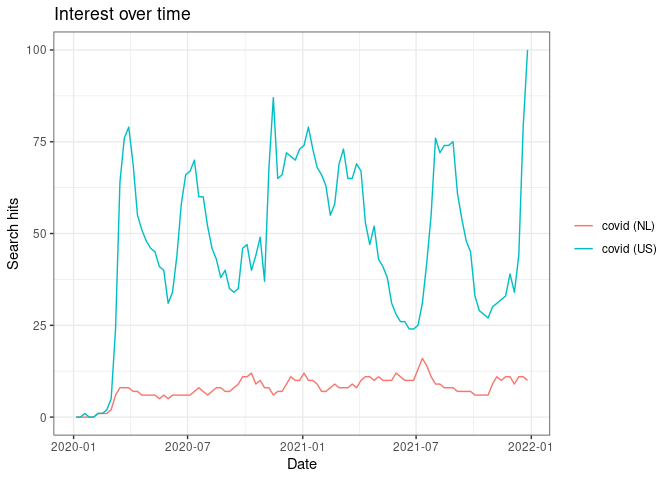
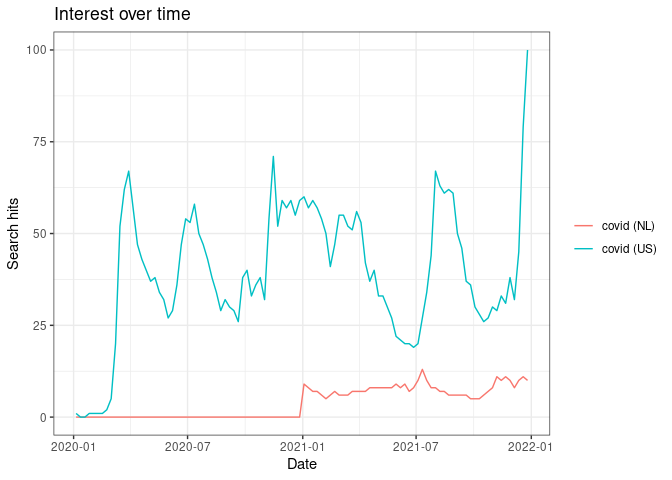
quick update of gathering data tutorial

diff --git a/tutorials/Gathering_data.md b/tutorials/Gathering_data.md
@@ -3,22 +3,26 @@ Gathering data into R
 Kasper Welbers & Wouter van Atteveldt
 January 8, 2021
 
--   [Tabular data formats](#tabular-data-formats)
-    -   [CSV files](#csv-files)
-    -   [Excel files](#excel-files)
-    -   [SPSS files](#spss-files)
-    -   [Stata files](#stata-files)
--   [Hierachical file formats](#hierachical-file-formats)
-    -   [Working with hierarchical data in
-        R](#working-with-hierarchical-data-in-r)
-    -   [JSON](#json)
-    -   [XML](#xml)
-    -   [HTML (sort of)](#html-sort-of)
--   [APIs](#apis)
-    -   [Google trends](#google-trends)
-    -   [Yahoo stock exchange data](#yahoo-stock-exchange-data)
-    -   [Example: CBS](#example-cbs)
--   [Web scraping](#web-scraping)
+- <a href="#tabular-data-formats" id="toc-tabular-data-formats">Tabular
+  data formats</a>
+  - <a href="#csv-files" id="toc-csv-files">CSV files</a>
+  - <a href="#excel-files" id="toc-excel-files">Excel files</a>
+  - <a href="#spss-files" id="toc-spss-files">SPSS files</a>
+  - <a href="#stata-files" id="toc-stata-files">Stata files</a>
+- <a href="#hierachical-file-formats"
+  id="toc-hierachical-file-formats">Hierachical file formats</a>
+  - <a href="#working-with-hierarchical-data-in-r"
+    id="toc-working-with-hierarchical-data-in-r">Working with hierarchical
+    data in R</a>
+  - <a href="#json" id="toc-json">JSON</a>
+  - <a href="#xml" id="toc-xml">XML</a>
+  - <a href="#html-sort-of" id="toc-html-sort-of">HTML (sort of)</a>
+- <a href="#apis" id="toc-apis">APIs</a>
+  - <a href="#google-trends" id="toc-google-trends">Google trends</a>
+  - <a href="#yahoo-stock-exchange-data"
+    id="toc-yahoo-stock-exchange-data">Yahoo stock exchange data</a>
+  - <a href="#example-cbs" id="toc-example-cbs">Example: CBS</a>
+- <a href="#web-scraping" id="toc-web-scraping">Web scraping</a>
 
 # Tabular data formats
 
@@ -53,15 +57,14 @@ Luckily, the diversity of such settings in CSV files is limited today.
 The `readr` package (which is part of the tidyverse) therefore has 3
 general flavours and 1 more versatile function.
 
--   `read_csv` is the default with a comma separator and dot for decimal
-    point. This is often what you need.
--   `read_csv2` uses a semicolon (;) separator with comma for decimal
-    point.
--   `read_tsv` uses tabs as separator (tsv stands for tab-separated
-    values). (`read_csv`, `read_csv2`, `read_tsv`). If you encounter a
-    CSV
--   `read_delim` lets you specify the delimiter and quotation character,
-    and some other settings.
+- `read_csv` is the default with a comma separator and dot for decimal
+  point. This is often what you need.
+- `read_csv2` uses a semicolon (;) separator with comma for decimal
+  point.
+- `read_tsv` uses tabs as separator (tsv stands for tab-separated
+  values). (`read_csv`, `read_csv2`, `read_tsv`). If you encounter a CSV
+- `read_delim` lets you specify the delimiter and quotation character,
+  and some other settings.
 
 Naturally, this is all properly documented:
 
@@ -336,9 +339,13 @@ library(gtrendsR)
 Now we can for instance look for when people searched for ‘covid’. In
 addition, we distinguish between the Netherlands (NL) and the United
 States (US), and we’ll look from the start of 2020 till the end of 2021.
+Note that we add `onlyInterest = T`, which means that we ask Google
+Trends to only give us data about interest in the search term over time.
+We can also ask for other things, but it seems that recently Google
+Trends sometimes refuses if we ask for too much data.
 
 ``` r
-trend = gtrends('covid', geo=c("NL","US"), time = '2020-01-01 2021-12-31')
+trend = gtrends('covid', geo=c("NL","US"), time = '2020-01-01 2021-12-31', onlyInterest = T)
 plot(trend)
 ```
 
@@ -367,9 +374,15 @@ as_tibble(trend$interest_over_time) %>%
   mutate(hits = as.numeric(ifelse(hits == '<1', 0, hits)))
 ```
 
-There’s some other fun stuff as well, such as related queries.
+There’s some other fun stuff as well, such as related queries. However,
+it seems that at the moment Google Trends get’s angry if we ask for
+multiple things at once. the `gtrends` package currently only has an
+option for `onlyInterest`, and not any options for `only` getting
+specific other information. So at the moment the following doesn’t
+really seem to work consistently.
 
 ``` r
+trend = gtrends('covid', geo=c("NL","US"), time = '2020-01-01 2021-12-31')
 as_tibble(trend$related_queries)
 ```
 
@@ -425,11 +438,15 @@ Some providers of open data (such as government institutions) provide
 APIs to access their datasets. And moreover, some of them also provide R
 packages for using these APIs.
 
-How this works really depends on the package. Here we provide an example
-of the Dutch CBS (central agency for statistics).
+How this works really depends on the package, so you will first want to
+read a package *vignette* (which you can often easily find by Google-in
+on *\[package name\] vignette*). Here we provide an example of the Dutch
+CBS (central agency for statistics), which has the [csbodataR
+package](https://cran.r-project.org/web/packages/cbsodataR/vignettes/cbsodata.html)
 
 ``` r
 library(cbsodataR)
+
 d = cbs_get_data("80030NED") %>% 
   cbs_add_date_column() %>% 
   cbs_add_label_columns() %>%
@@ -487,5 +504,5 @@ ha-rvest-ing data) it is certainly possible to do webscraping in R. It
 is also a good way to learn about webscraping (and basic HTML), and the
 skills are easily transferable to Python.
 
-Since this is a pretty big topic, we have a separate tutorial on [web
-scraping in R](https://www.youtube.com/watch?v=9GR26Y4z_v4).
+Since this is a pretty big topic, we have a separate tutorial on *Web
+scraping in R* (on the r-course-material Github repository)
